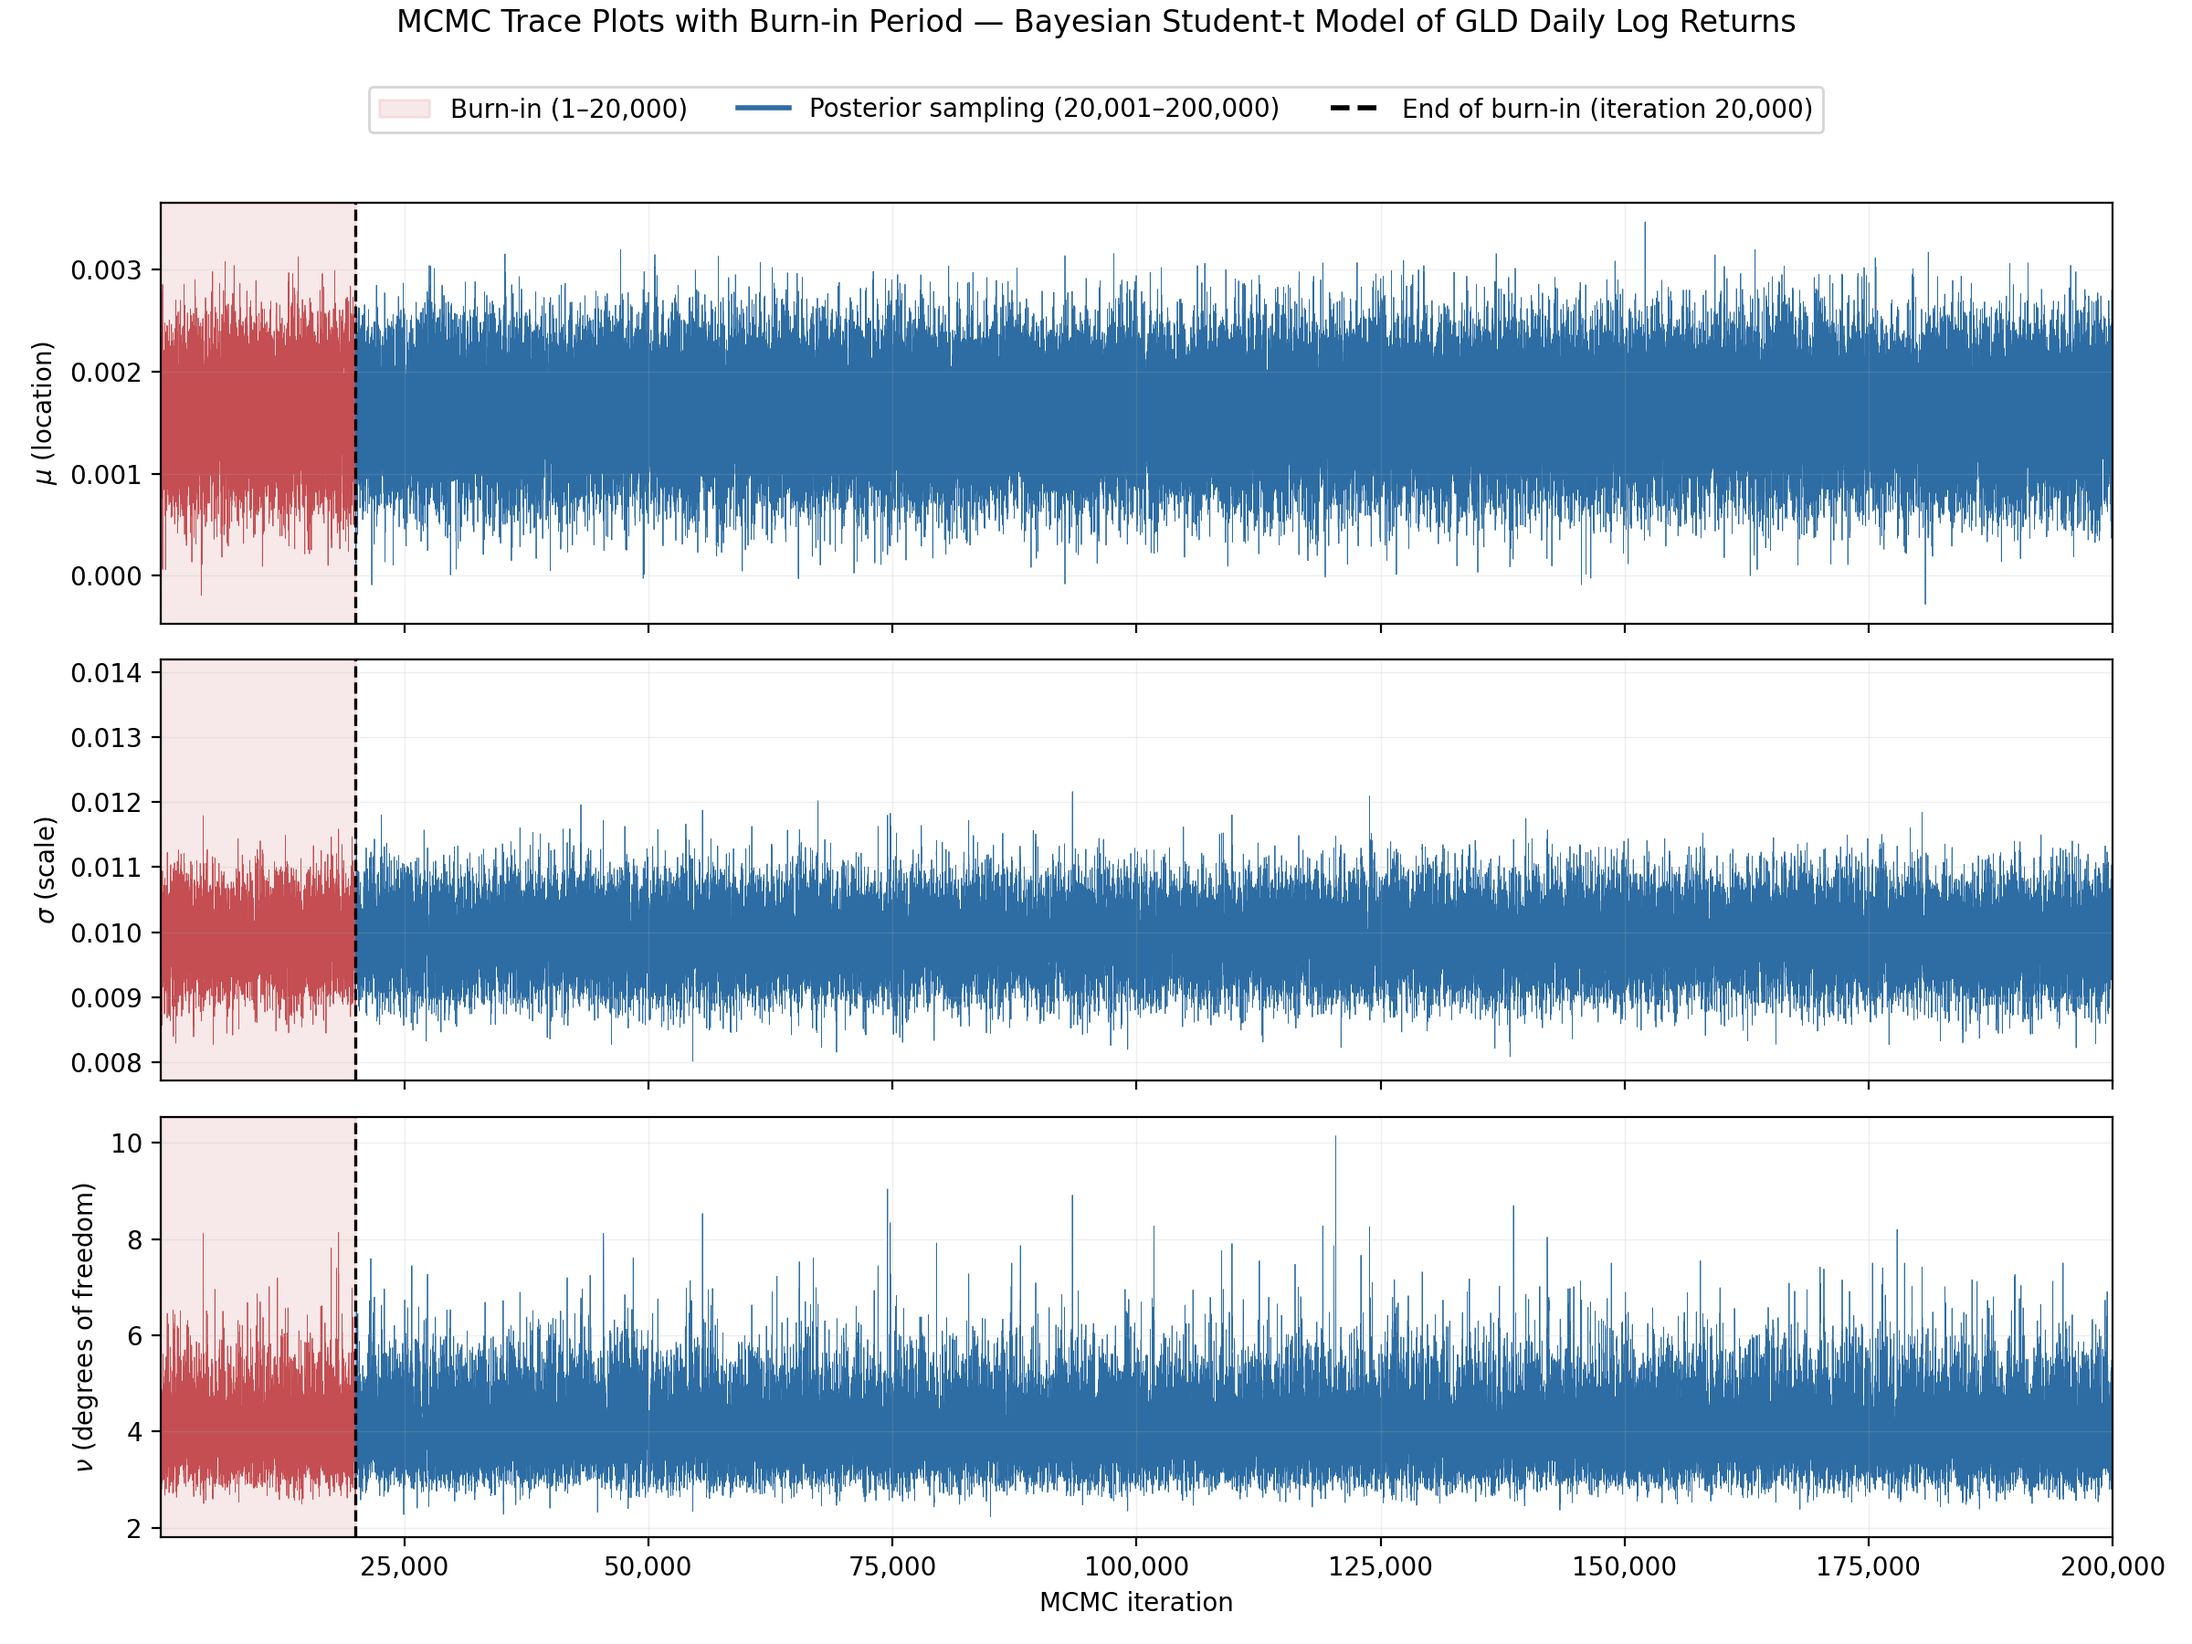
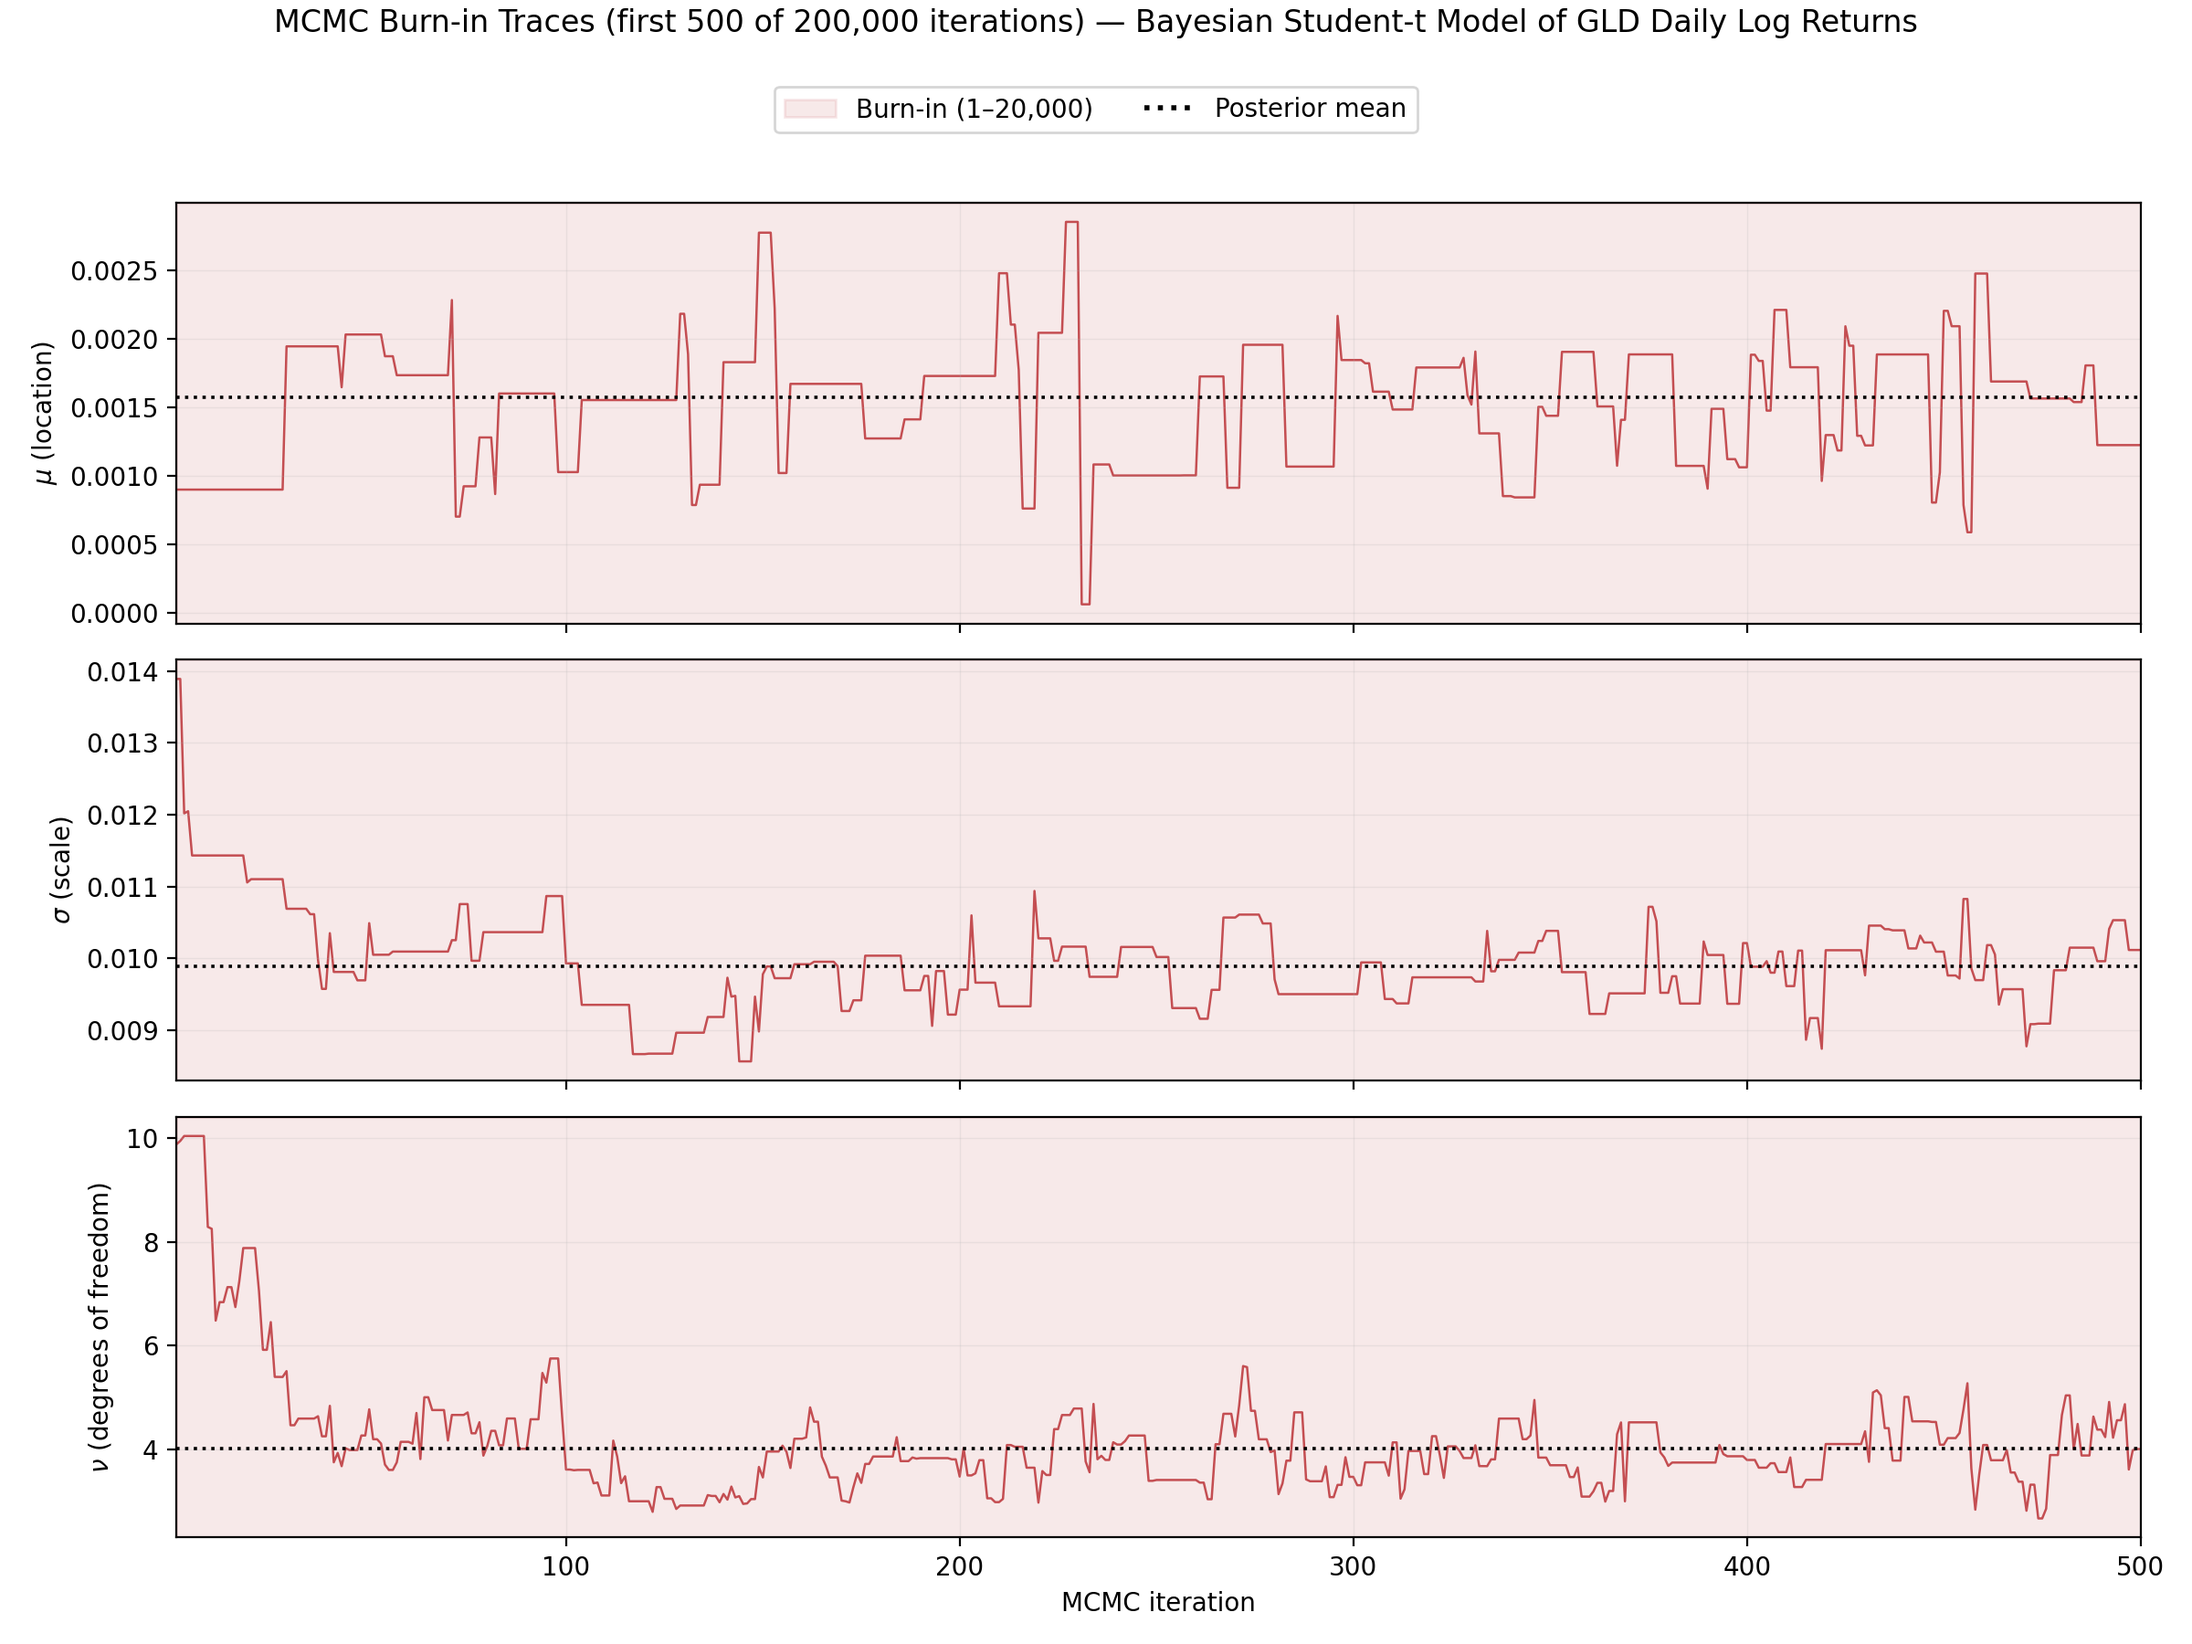
fix: zoom burn-in trace figure to the actual transient
The full 200,000-iteration view rendered as a flat band, hiding the
burn-in it was meant to show, because the chain settles almost
immediately: nu falls from ~9.9 to ~4 within ~40 sweeps and sigma from
0.0139 to ~0.0099 by ~120.

burnin_trace_plot() gains n_show (display only the leading iterations)
and settled_values (horizontal posterior-mean reference line). The
driver now shows the first 500 iterations, where the descent of each
parameter onto its posterior mean -- and the flat segments from rejected
Metropolis proposals -- are both legible.

diff --git a/src/diagnostics.py b/src/diagnostics.py
@@ -128,15 +128,17 @@ def acf_plot(chain: np.ndarray, param_name: str, out_path: Path,
 
 
 def burnin_trace_plot(draws: dict[str, np.ndarray], n_burnin: int,
-                      out_path: Path, title: str | None = None) -> None:
+                      out_path: Path, title: str | None = None,
+                      n_show: int | None = None,
+                      settled_values: dict[str, float] | None = None) -> None:
     """
-    Stacked full-chain trace plots marking the burn-in period.
+    Stacked trace plots of the start of the chain, marking burn-in.
 
     One vertically stacked subplot per entry in `draws`, all sharing the
-    iteration axis. Iterations 1..n_burnin are shaded and drawn in a
-    separate colour from the retained posterior-sampling region, with a
-    dashed line at the boundary. Samples are plotted exactly as drawn --
-    no smoothing, subsampling, or transformation.
+    iteration axis. Burn-in iterations are shaded and drawn in a separate
+    colour from the retained posterior-sampling region, with a dashed line
+    at the boundary. Samples are plotted exactly as drawn -- no smoothing,
+    subsampling, or transformation.
 
     Parameters:
     - draws: {display label: 1-D array of ALL iterations (burn-in first)},
@@ -144,24 +146,44 @@ def burnin_trace_plot(draws: dict[str, np.ndarray], n_burnin: int,
     - n_burnin: number of leading iterations treated as burn-in
     - out_path: file path to save the figure to
     - title: optional figure title
+    - n_show: display only the first n_show iterations. Use this to zoom
+      into the transient when n_burnin is far longer than the chain takes
+      to settle, which would otherwise render as a flat band. Defaults to
+      the whole chain.
+    - settled_values: {display label: value} drawn as a horizontal
+      reference line, so convergence toward it is visible
     """
     burnin_color = "#c44e52"
     posterior_color = "#2d6da4"
 
+    n_total = len(next(iter(draws.values())))
+    n_show = min(n_show or n_total, n_total)
+    # How much of the visible window is burn-in (all of it, when zoomed in
+    # further than the burn-in boundary).
+    n_burnin_visible = min(n_burnin, n_show)
+
     fig, axes = plt.subplots(len(draws), 1, figsize=(12, 9), sharex=True)
 
     for ax, (label, chain) in zip(np.atleast_1d(axes), draws.items()):
-        iterations = np.arange(1, len(chain) + 1)
+        chain = chain[:n_show]
+        iterations = np.arange(1, n_show + 1)
 
-        ax.axvspan(1, n_burnin, color=burnin_color, alpha=0.12, zorder=0,
-                   label=f"Burn-in (1–{n_burnin:,})")
-        ax.plot(iterations[:n_burnin], chain[:n_burnin], color=burnin_color,
-                linewidth=0.3, zorder=1)
-        ax.plot(iterations[n_burnin:], chain[n_burnin:], color=posterior_color,
-                linewidth=0.3, zorder=1,
-                label=f"Posterior sampling ({n_burnin + 1:,}–{len(chain):,})")
-        ax.axvline(n_burnin, color="black", linestyle="--", linewidth=1.2,
-                   zorder=2, label=f"End of burn-in (iteration {n_burnin:,})")
+        ax.axvspan(1, n_burnin_visible, color=burnin_color, alpha=0.12,
+                   zorder=0, label=f"Burn-in (1–{n_burnin:,})")
+        ax.plot(iterations[:n_burnin_visible], chain[:n_burnin_visible],
+                color=burnin_color, linewidth=0.9, zorder=1)
+
+        if n_show > n_burnin:
+            ax.plot(iterations[n_burnin:], chain[n_burnin:],
+                    color=posterior_color, linewidth=0.9, zorder=1,
+                    label=f"Posterior sampling ({n_burnin + 1:,}–{n_total:,})")
+            ax.axvline(n_burnin, color="black", linestyle="--", linewidth=1.2,
+                       zorder=3,
+                       label=f"End of burn-in (iteration {n_burnin:,})")
+
+        if settled_values is not None and label in settled_values:
+            ax.axhline(settled_values[label], color="black", linestyle=":",
+                       linewidth=1.3, zorder=2, label="Posterior mean")
 
         ax.set_ylabel(label)
         ax.margins(x=0)
@@ -172,7 +194,7 @@ def burnin_trace_plot(draws: dict[str, np.ndarray], n_burnin: int,
 
     # One legend for the whole figure: every subplot shares these regions.
     handles, labels = axes[0].get_legend_handles_labels()
-    legend = fig.legend(handles, labels, loc="upper center", ncol=3,
+    legend = fig.legend(handles, labels, loc="upper center", ncol=len(labels),
                         frameon=True, bbox_to_anchor=(0.5, 0.955))
     for line in legend.get_lines():
         line.set_linewidth(2.0)  # thin trace lines are illegible in a legend

diff --git a/src/run_mcmc.py b/src/run_mcmc.py
@@ -25,9 +25,9 @@ Outputs:
     figures/mcmc/nu_posterior_by_lambda.png
         overlaid pooled post-burn-in nu posterior density by lambda
     figures/mcmc/burnin_trace_lambda_0.10.png
-        stacked mu/sigma/nu traces over ALL iterations (baseline model),
-        shading the burn-in period; cannot be rebuilt from the CSVs,
-        which hold only the retained post-burn-in thinned sample
+        stacked mu/sigma/nu traces over the opening iterations (baseline
+        model), zoomed to the burn-in transient; cannot be rebuilt from
+        the CSVs, which hold only the retained post-burn-in thinned sample
     figures/mcmc/acf_{mu,sigma,nu}_lambda_0.10.png
         autocorrelation of each parameter on the RAW (unthinned) chain,
         showing the decay that justifies the choice of THIN
@@ -239,20 +239,30 @@ if __name__ == "__main__":
         print(f"{label:<14}{nu_summary['mean']:>10.4f}{nu_summary['sd']:>10.4f}"
               f"{nu_summary['ci_2.5']:>10.4f}{nu_summary['ci_97.5']:>10.4f}")
 
-    # 6. Burn-in trace figure (baseline model, full chain) -------------------
-    # Plots every iteration, burn-in included, so the discarded region can
-    # be inspected directly. Note this cannot be rebuilt from the CSVs:
-    # those hold only the retained (post-burn-in, thinned) sample.
+    # 6. Burn-in trace figure (baseline model) -------------------------------
+    # Zoomed to the opening iterations: nu descends from its start near 8
+    # to ~4 within a few dozen sweeps and sigma settles by ~120, so the
+    # whole N_BURNIN window would render as a flat band and hide the very
+    # transient this figure exists to show. Built from the in-memory chain
+    # -- the CSVs hold only the retained (post-burn-in, thinned) sample.
+    BURNIN_SHOW = 500
+    burnin_labels = {
+        "mu": r"$\mu$ (location)",
+        "sigma": r"$\sigma$ (scale)",
+        "nu": r"$\nu$ (degrees of freedom)",
+    }
     burnin_trace_plot(
-        {
-            r"$\mu$ (location)": baseline_full_chain["mu"],
-            r"$\sigma$ (scale)": baseline_full_chain["sigma"],
-            r"$\nu$ (degrees of freedom)": baseline_full_chain["nu"],
-        },
+        {burnin_labels[p]: baseline_full_chain[p] for p in burnin_labels},
         n_burnin=N_BURNIN,
         out_path=FIGURES_DIR / "burnin_trace_lambda_0.10.png",
-        title=("MCMC Trace Plots with Burn-in Period — Bayesian Student-t "
-               "Model of GLD Daily Log Returns"),
+        title=("MCMC Burn-in Traces (first "
+               f"{BURNIN_SHOW:,} of {N_ITER:,} iterations) — Bayesian "
+               "Student-t Model of GLD Daily Log Returns"),
+        n_show=BURNIN_SHOW,
+        settled_values={
+            burnin_labels[p]: summaries["lambda_0.10"][p]["mean"]
+            for p in burnin_labels
+        },
     )
 
     # 7. Autocorrelation diagnostic (baseline model) -------------------------
